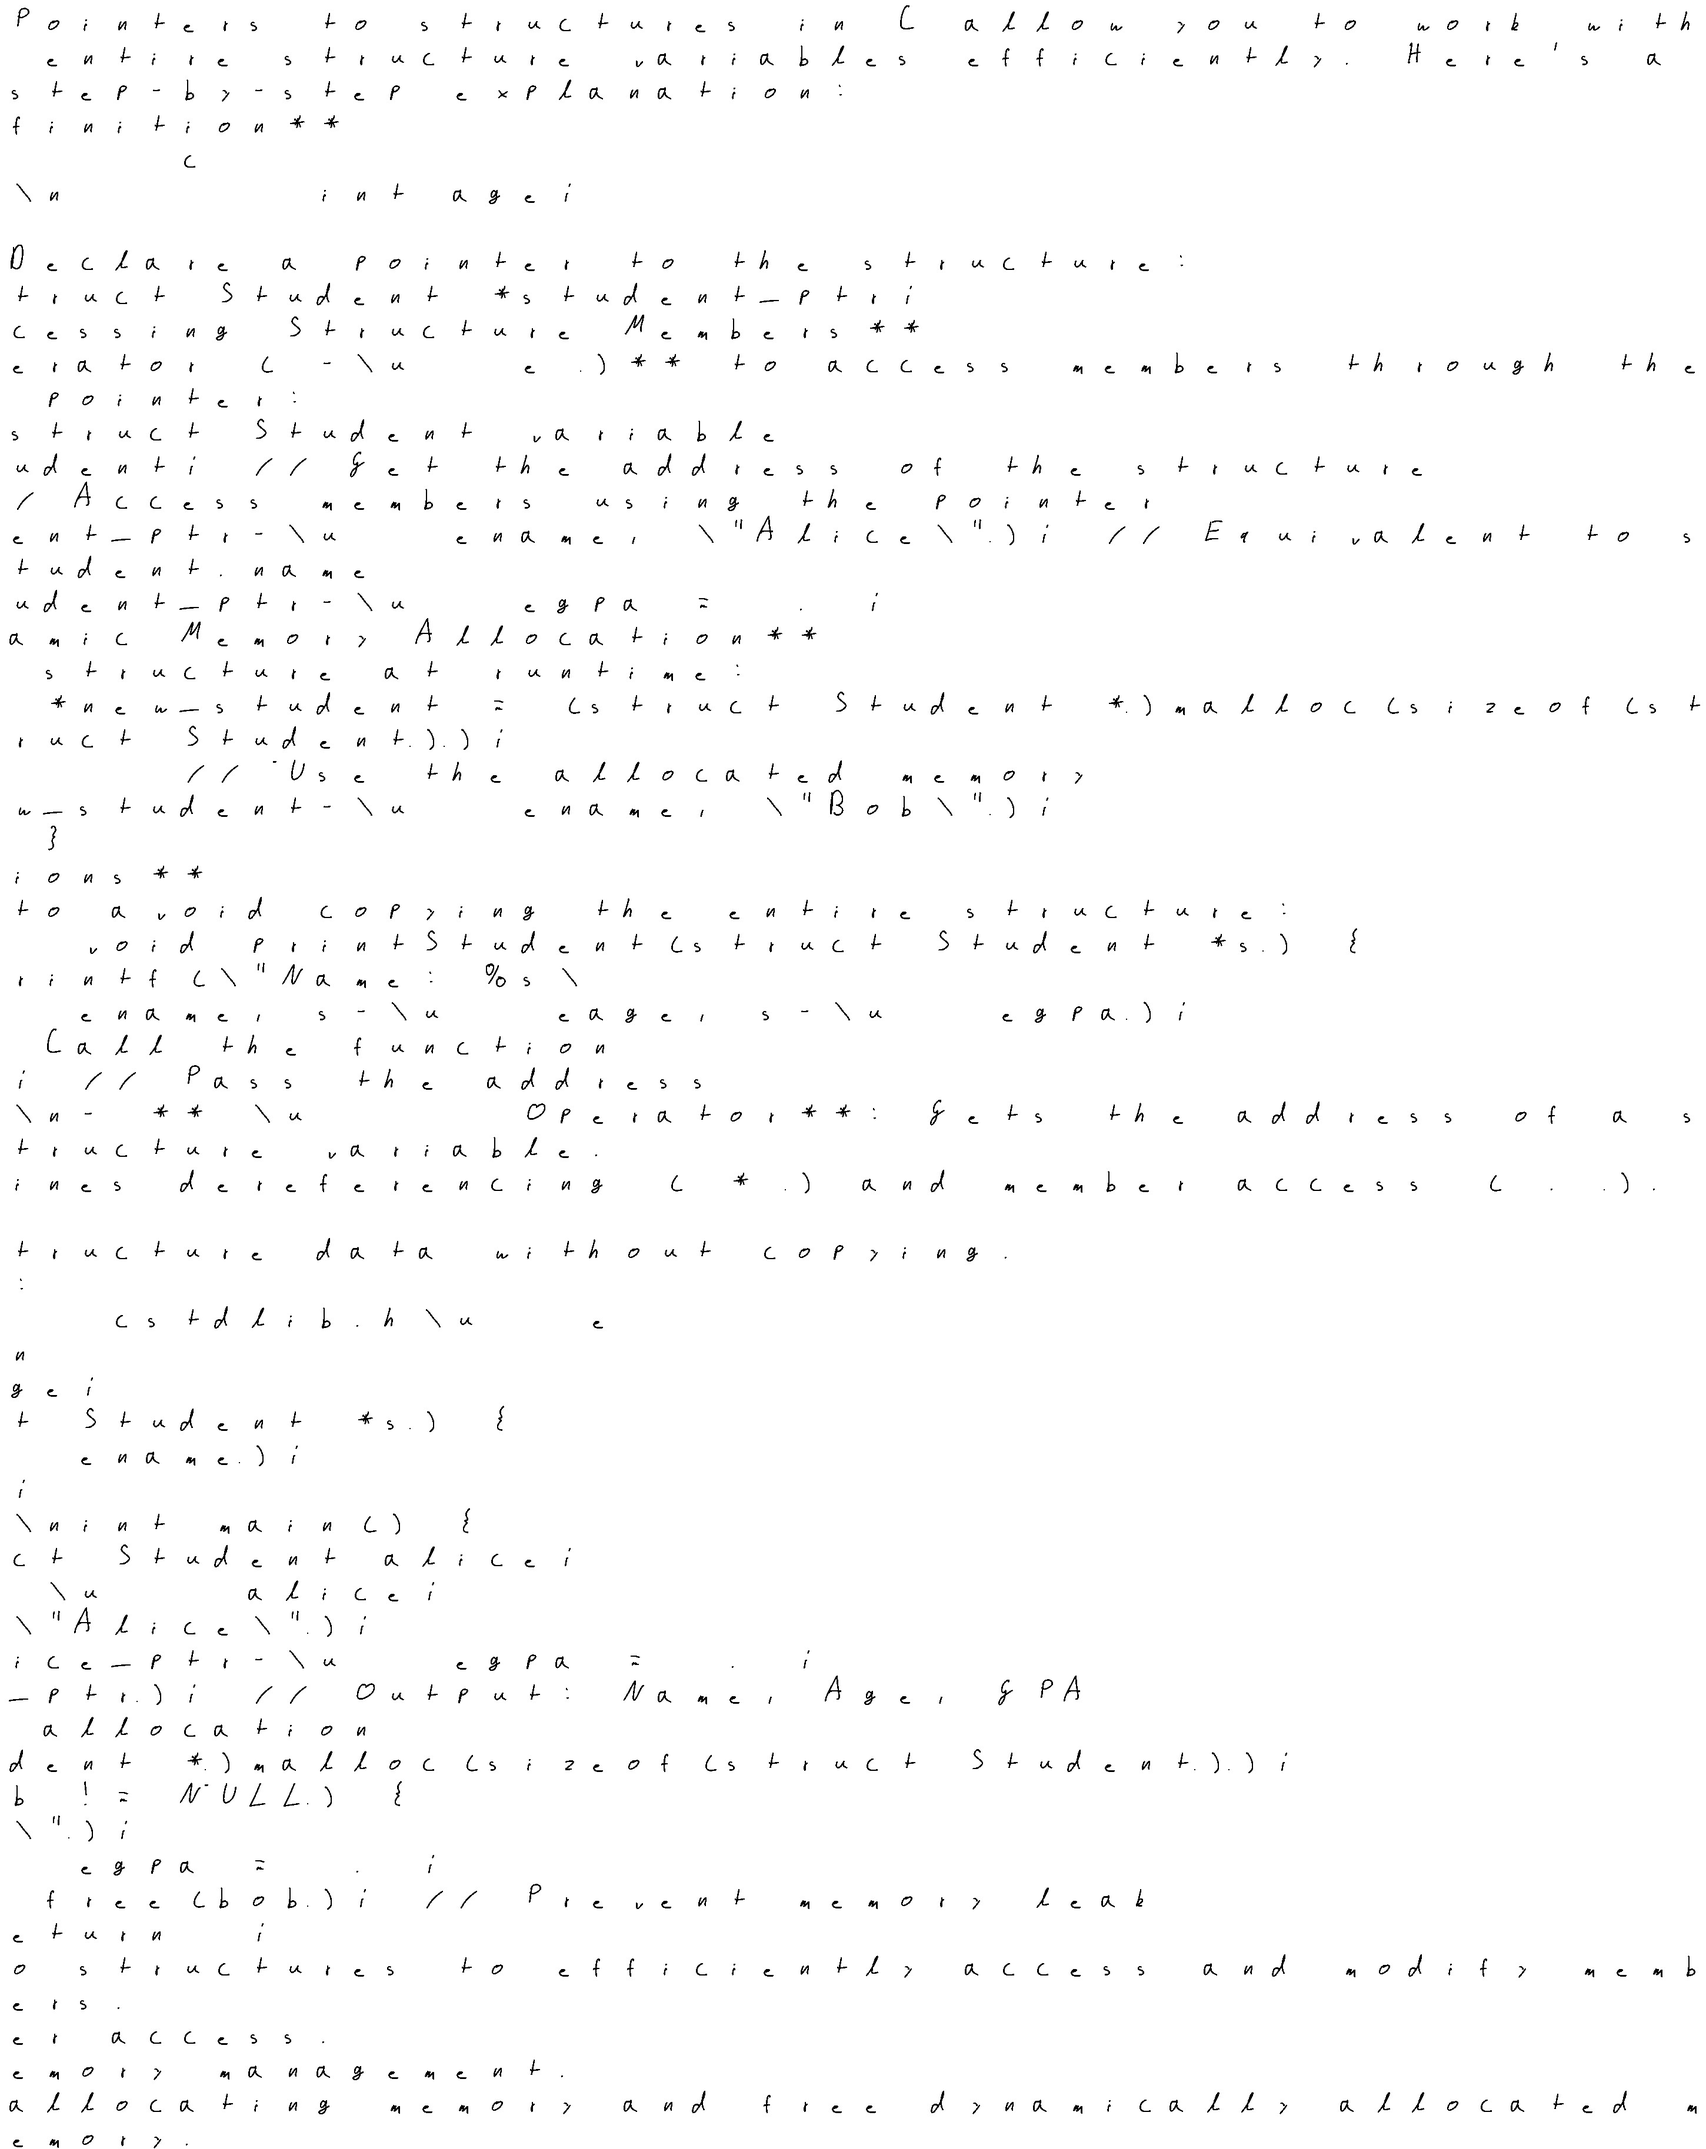
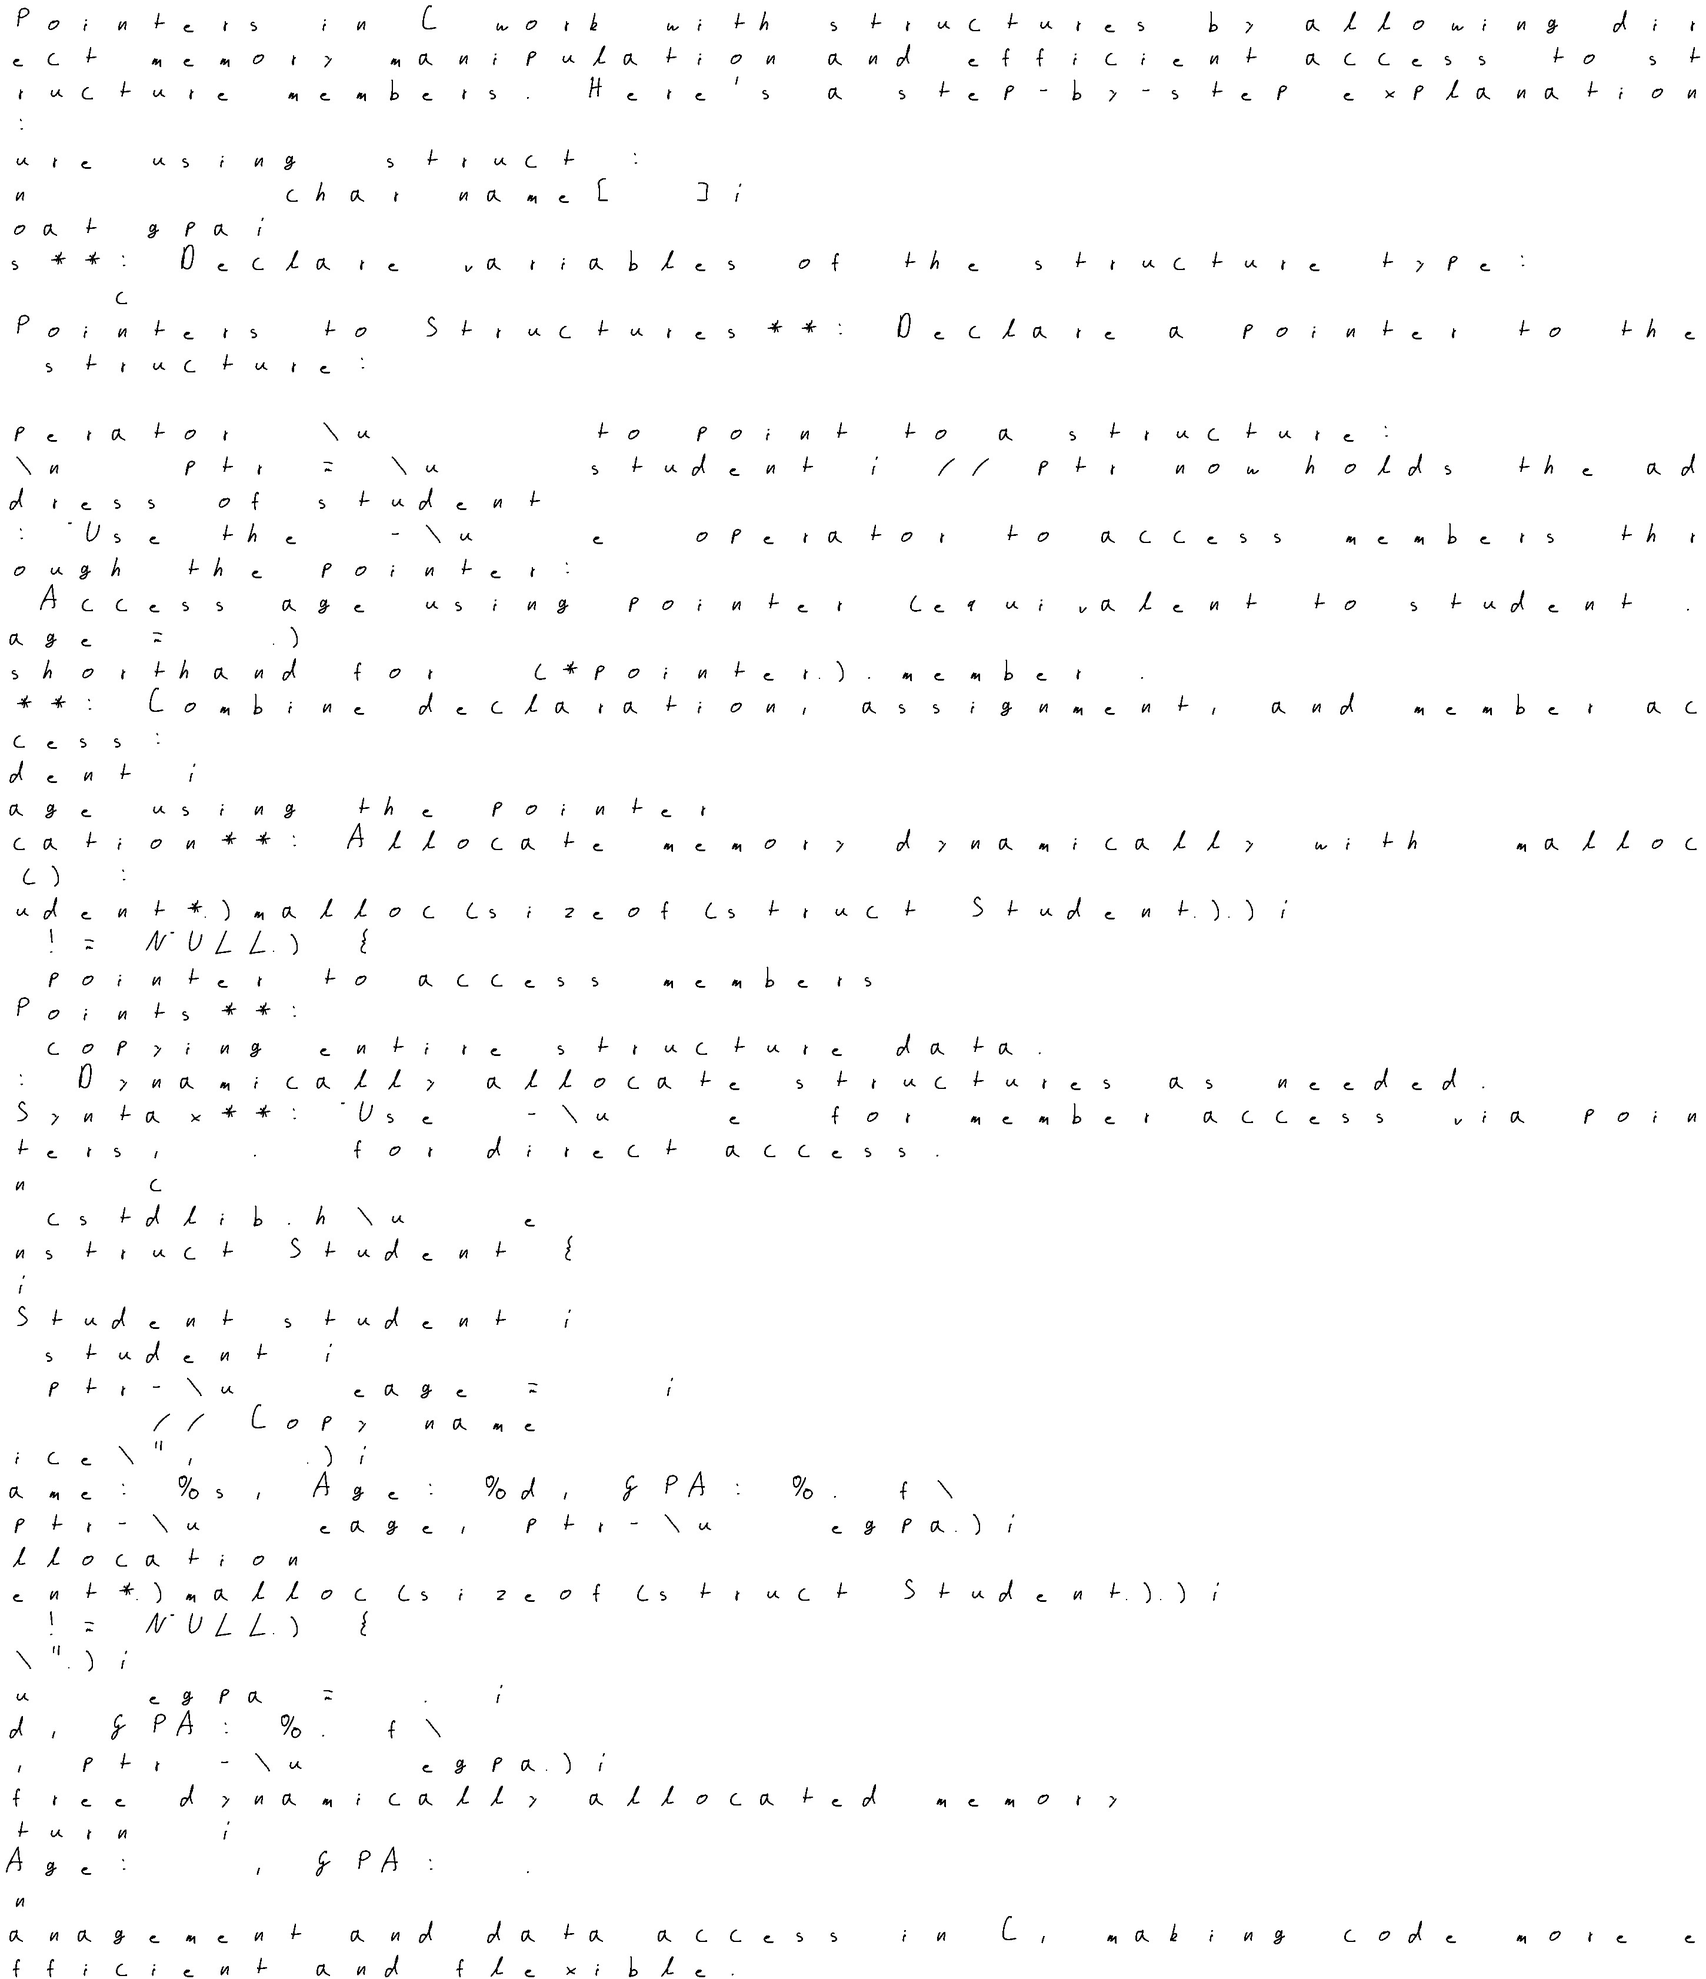
not use markdown

Changed region(s): [[0.1862, 0.5306, 0.2172, 0.5618], [0.1241, 0.8115, 0.1552, 0.8427], [0.0621, 0.6555, 0.0931, 0.6867]]

diff --git a/main.c b/main.c
@@ -169,7 +169,7 @@ int main(void) {
     const char* json =
         "{"
         "\"model\":\"deepseek-r1\","
-        "\"prompt\":\"explain to me how pointers work in c with structures!\","
+        "\"prompt\":\"explain to me how pointers work in c with structures! DO NOT USE MARKDOWN\","
         "\"stream\":false"
         "}";
 
